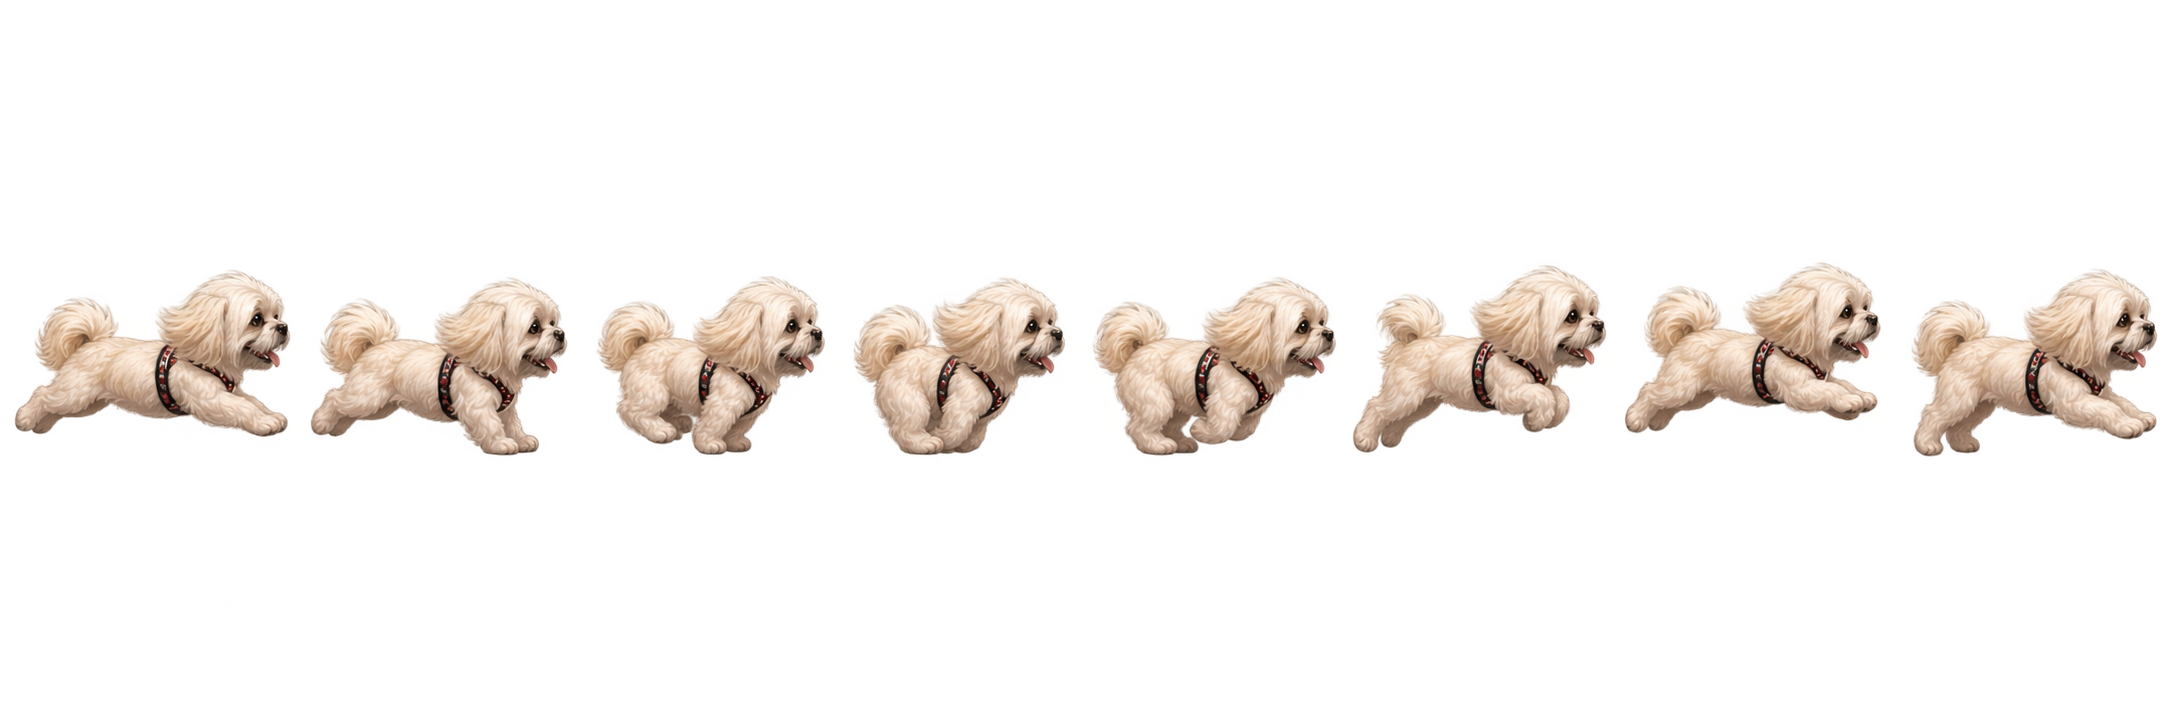
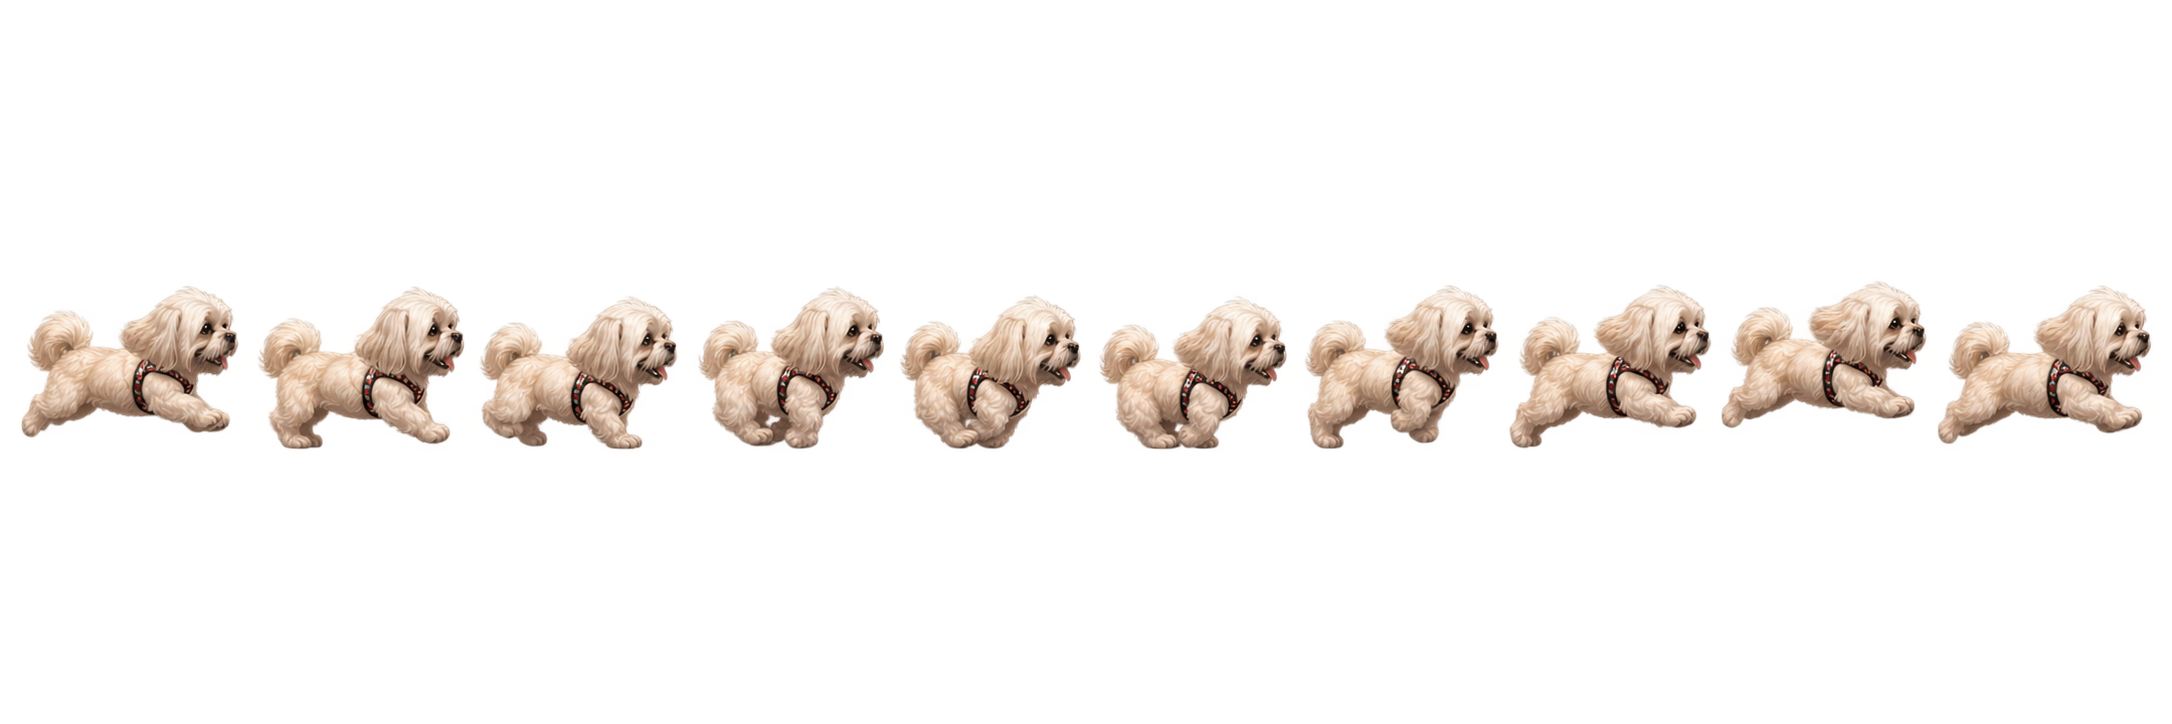
Galope do cachorro com 10 quadros (mínimo para o passo suave)
Folha nova gerada no ChatGPT na mesma conversa da de 8, para manter o
mesmo cachorro. O script de recorte recusa folha com menos de 10 quadros
e o prompt documenta as 10 fases. No ar, o quadro de voo passa a ser o 9º.

Changed region(s): [[0.0, 0.3646, 1.0, 0.6381]]

diff --git a/src/features/corrida/desenho/cachorroSprite.ts b/src/features/corrida/desenho/cachorroSprite.ts
@@ -1,7 +1,7 @@
 import { SUJEIRA_MAX } from '../../../engine/index.ts'
 import { SPRITE_CACHORRO_CORRENDO as FOLHA } from '../imagens/index.ts'
 
-// Cachorro da arte (folha de 8 quadros de galope). Coordenadas em pixels CSS da tela; (cx, base)
+// Cachorro da arte (folha de 10 quadros de galope). Coordenadas em pixels CSS da tela; (cx, base)
 // é o ponto dos pés no centro da caixa de colisão.
 
 // Altura do quadro inteiro no mundo, em metros. O quadro tem folga para o quique do galope, então
@@ -9,9 +9,9 @@ import { SPRITE_CACHORRO_CORRENDO as FOLHA } from '../imagens/index.ts'
 const ALTURA_QUADRO_M = 1.2
 // Quanto o desenho fica à frente do centro da caixa: a cabeça é a parte que bate.
 const AVANCO_M = 0.05
-// Um ciclo de passos (2π de fase) percorre os 8 quadros uma vez.
+// Um ciclo de passos (2π de fase) percorre os quadros da folha uma vez.
 // No ar: o quadro do voo esticado, com as quatro patas fora do chão.
-const QUADRO_NO_AR = 6
+const QUADRO_NO_AR = 8
 
 export interface OpcoesSprite {
   fase: number

diff --git a/src/features/corrida/imagens/index.ts b/src/features/corrida/imagens/index.ts
@@ -11,11 +11,11 @@ import velocidade from './hud-velocidade.webp'
 export const IMAGENS_CENARIO = { ceu, casas, calcada }
 export const IMAGENS_HUD = { distancia, velocidade, pausa }
 
-// Folha do cachorro correndo (galope): 8 quadros lado a lado, recortados de
+// Folha do cachorro correndo (galope): 10 quadros lado a lado (mínimo para o passo ficar suave), recortados de
 // PRD/referencias/cachorro-correndo.png (gerada no ChatGPT com o prompt em
 // PRD/referencias/prompt-cachorro-correndo.md) por scripts/sprites/recortar-corrida.py.
 // `pes`: pixels entre a pata mais baixa da folha e a base do quadro.
-export const SPRITE_CACHORRO_CORRENDO = { quadros: 8, largura: 485, altura: 320, pes: 9 } as const
+export const SPRITE_CACHORRO_CORRENDO = { quadros: 10, largura: 489, altura: 320, pes: 11 } as const
 
 type ArteCenario = Record<keyof typeof IMAGENS_CENARIO, HTMLImageElement>
 

diff --git a/scripts/sprites/recortar-corrida.py b/scripts/sprites/recortar-corrida.py
@@ -10,6 +10,9 @@ import sys
 import numpy as np
 from PIL import Image
 
+# Menos que isto e o galope "pula" de pose em pose na velocidade do jogo.
+QUADROS_MINIMOS = 10
+
 src, out = sys.argv[1], sys.argv[2]
 altura_saida = int(sys.argv[3]) if len(sys.argv) > 3 else 256
 previa = sys.argv[4] if len(sys.argv) > 4 else None
@@ -44,9 +47,13 @@ for y0 in range(H):
                     pilha.append((ny, nx))
         manchas.append((n, soma_x / cnt, cnt))
 
-grandes = sorted([m for m in manchas if m[2] > 0.02 * H * W / 8], key=lambda m: m[1])
+# Um cachorro é uma mancha com pelo menos 30% da área da maior; o resto é pelo solto.
+maior = max(m[2] for m in manchas)
+grandes = sorted([m for m in manchas if m[2] > 0.3 * maior], key=lambda m: m[1])
 total = len(grandes)
 print('quadros encontrados:', total)
+if total < QUADROS_MINIMOS:
+    sys.exit(f'A folha tem {total} quadros; o mínimo para a corrida é {QUADROS_MINIMOS}.')
 celula = W / total
 
 # Cada mancha pequena (pelo solto) vai para o cachorro mais próximo.

diff --git a/PRD/referencias/prompt-cachorro-correndo.md b/PRD/referencias/prompt-cachorro-correndo.md
@@ -1,7 +1,11 @@
 # Prompt — folha de sprites do cachorro correndo
 
 Usado no ChatGPT (geração de imagem) com `cachorro-andando.webp` anexada como referência.
-A folha gerada passa por `scripts/sprites/recortar-cachorro.py`.
+A folha gerada passa por `scripts/sprites/recortar-corrida.py`.
+
+**Mínimo de 10 quadros por ciclo.** Com 8, o galope pula de pose em pose na velocidade do jogo; o
+script recusa folha com menos de 10. Na primeira geração saíram 8 e foi preciso pedir de novo
+(segunda mensagem abaixo).
 
 ---
 
@@ -13,20 +17,22 @@ shoulders. Same painterly, soft-shaded illustration style, same colors, same pro
 
 Create a **sprite sheet of a full RUN CYCLE (gallop)** for a 2D side-scrolling endless runner game.
 
-- **8 frames**, in **one single horizontal row**, left to right, in animation order. The last
+- **10 frames**, in **one single horizontal row**, left to right, in animation order. The last
   frame must loop back smoothly into the first.
 - Strict **side view (profile), facing RIGHT**, the same camera angle in every frame.
 - The dog is running fast and happy, escaping a bath: energetic, ears and fur flowing backwards
   with the speed, tail bouncing.
-- Gallop phases, in this order:
-  1. front legs reaching far forward, back legs pushing behind (stretched);
-  2. front paws touching the ground, body starting to compress;
-  3. front legs under the chest, back legs swinging forward;
-  4. gathered pose: all four legs bunched under the body, back arched slightly;
-  5. back paws touching the ground ahead of the hips;
-  6. back legs pushing off, front legs lifting;
-  7. extended flight: body stretched, all paws off the ground;
-  8. front legs reaching forward again (slightly different from frame 1, so the loop is smooth).
+- Gallop phases, evenly spaced in time across one full stride:
+  1. front legs reaching far forward, back legs stretched behind;
+  2. front paws about to touch the ground;
+  3. front paws on the ground, body starting to compress;
+  4. front legs under the chest, back legs swinging forward;
+  5. gathered pose: all four legs bunched under the body;
+  6. back paws touching the ground ahead of the hips;
+  7. back legs pushing off, front legs lifting;
+  8. body extending, front legs reaching;
+  9. extended flight: body stretched, all paws off the ground;
+  10. front legs reaching forward, leading back into frame 1.
 - **Same size and scale** for the dog in every frame; the head stays at about the same height
   (small natural bounce only).
 - Every frame in an **equal-width cell**, the dog centered in its cell, with clear empty space

diff --git a/PRD/DESIGN-estilo-visual-hq-manga.md b/PRD/DESIGN-estilo-visual-hq-manga.md
@@ -9,7 +9,7 @@
 
 > **Aviso (05/11/2026):** na corrida, o cachorro segue o asset pintado
 > [referencias/cachorro-andando.webp](referencias/cachorro-andando.webp) (shih tzu creme, pelo
-> comprido, peitoral preto e vermelho). A animação usa a folha de galope
+> comprido, peitoral preto e vermelho). A animação usa a folha de galope de 10 quadros
 > [referencias/cachorro-correndo.png](referencias/cachorro-correndo.png), gerada no ChatGPT com o
 > prompt de [referencias/prompt-cachorro-correndo.md](referencias/prompt-cachorro-correndo.md) e
 > recortada por `scripts/sprites/recortar-corrida.py`. Decisão do André: fidelidade ao asset vale
